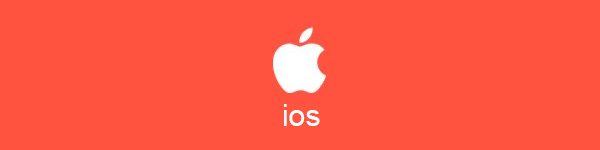
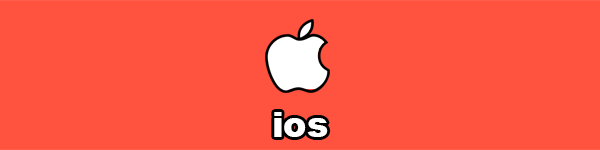
telegram modify

Changed region(s): [[0.42, 0.1333, 0.57, 0.64], [0.45, 0.6933, 0.57, 0.9333]]

diff --git a/schedule/telegramHmall.js b/schedule/telegramHmall.js
@@ -1,0 +1,77 @@
+const schedule = require('node-schedule');
+const dotenv = require('dotenv');
+dotenv.config();
+const moment = require('moment');
+moment.locale('ko');
+process.env.NTBA_FIX_319 = 1;
+
+const TelegramBot = require('node-telegram-bot-api');
+const token = process.env.TELEGRAM_BOT_TOKEN_HMALL;
+const bot = new TelegramBot(token, { polling: true });
+
+let alertJob;
+const hmallNewReviews = [];
+
+const setHmallNewReviews = (name, data, result) => {
+  const starRate = parseInt(data.score, 10) === 1 || parseInt(data.rate, 10) === 1;
+  if (name === 'hmall' && starRate) {
+    hmallNewReviews.push(result);
+  }
+};
+
+const clearNewReviews = () => {
+  while (hmallNewReviews.length > 0) {
+    hmallNewReviews.pop();
+  }
+};
+
+const getAlertReview = async chatId => {
+  // 건별 텔레그램 메시지 전송
+  for (let i = 0, len = hmallNewReviews.length; i < len; i++) {
+    const { date, os, review } = hmallNewReviews[i];
+    const imageHmallUrl = `http://review.hdmall.com/images/icon-hmall-telegram-${os}.png?ver=1`;
+    const text = os === 'android' ? review.text : review.comment;
+    const caption = `# ${moment(date).format('YYYY. MM. DD')}\n\n${text}`;
+    await bot.sendPhoto(chatId, imageHmallUrl, { caption });
+  }
+  clearNewReviews();
+};
+
+bot.onText(/\/start$/, (msg, match) => {
+  const chatId = msg.chat.id;
+  bot.sendMessage(chatId, '평점 1점 앱리뷰 알림을 시작합니다.\n(매일 오전 8시 30분)');
+  alertJob = schedule.scheduleJob('30 8 * * *', () => {
+    getAlertReview(chatId);
+  });
+  console.log('[TELEGRAM] #평점 1점 앱리뷰 알림을 시작합니다. (매일 오전 8시 30분)');
+});
+
+bot.onText(/\/stop$/, (msg, match) => {
+  const chatId = msg.chat.id;
+  alertJob.cancel();
+  bot.sendMessage(chatId, '앱리뷰 알림을 종료 합니다.');
+  console.log('[TELEGRAM] #앱리뷰 알림을 종료 합니다.');
+});
+
+module.exports = { setHmallNewReviews };
+
+/**
+ * #### TODO ####
+ * ------------------------------------------------------------
+ * 2019.10.31. 작성
+ *
+ * ## 1번
+ * 현재 로직은 매일9시 어제날짜부터 오늘날짜까지의 리뷰 1점 짜리를 가져와서
+ * 텔레그램 메세지 전송
+ *
+ * ## 2번
+ * 매일 8시 30분 마다 메시지 전송이 잘되는지 확인차 서버를 돌리고감
+ *
+ * ## 3번
+ * 매일 8시 30분 마다 잘 뿌려지는 확인된 그 이후에
+ * 리뷰 어떤식으로 뿌릴지 고민
+ *
+ * ## 4번
+ * 1점짜리 리뷰가 수집되지 않을 경우 안내 메시지
+ * ------------------------------------------------------------
+ */

diff --git a/schedule/scrap.js b/schedule/scrap.js
@@ -10,7 +10,8 @@ const { getRandom, strToDate, deepCompare, undefinedToNull, objectKeyRemove, obj
 moment.locale('ko');
 
 // telegram api apply
-const { setNewReviews } = require('./telegram');
+const { setHmallNewReviews } = require('./telegramHmall');
+const { setThehyundaiNewReviews } = require('./telegramThehyundai');
 let scrapJob;
 
 const scrapingDetailGooglePlay = async scrapData => {
@@ -108,7 +109,8 @@ const scrapingReviewGooglePlay = async scrapData => {
           updatedReviews.push(updateResult);
 
           // hmall 평점1점 리뷰 배열에 담기
-          setNewReviews(name, data, updateResult);
+          setHmallNewReviews(name, data, updateResult);
+          setThehyundaiNewReviews(name, data, updateResult);
           console.log(`[SCRAPING/DB] #${name} reviews googlePlay, updated review idx: ${idx}`);
         }
       } else {
@@ -122,7 +124,8 @@ const scrapingReviewGooglePlay = async scrapData => {
         accumulator.push(newResult);
 
         // hmall 평점1점 리뷰 배열에 담기
-        setNewReviews(name, data, newResult);
+        setHmallNewReviews(name, data, newResult);
+        setThehyundaiNewReviews(name, data, newResult);
         console.log(`[SCRAPING] #${name} reviews googlePlay, new review idx: ${idx}`);
       }
 
@@ -200,7 +203,8 @@ const scrapingReviewAppStore = async scrapData => {
           updatedReviews.push(updateResult);
 
           // hmall 평점1점 리뷰 배열에 담기
-          setNewReviews(name, data, updateResult);
+          setHmallNewReviews(name, data, updateResult);
+          setThehyundaiNewReviews(name, data, updateResult);
           console.log(`[SCRAPING/DB] #${name} reviews appStore, updated review idx: ${idx}`);
         }
       } else {
@@ -214,7 +218,8 @@ const scrapingReviewAppStore = async scrapData => {
         accumulator.push(newResult);
 
         // hmall 평점1점 리뷰 배열에 담기
-        setNewReviews(name, data, newResult);
+        setHmallNewReviews(name, data, newResult);
+        setThehyundaiNewReviews(name, data, newResult);
         console.log(`[SCRAPING] #${name} reviews appStore, new review idx: ${idx}`);
       }
 
@@ -292,6 +297,7 @@ const sitesScrapingStart = async () => {
 };
 
 const scheduler = site => {
+  // 스크랩 시작
   sitesScrapingStart();
 
   // 스케쥴 등록

diff --git a/schedule/telegramThehyundai.js b/schedule/telegramThehyundai.js
@@ -6,34 +6,30 @@ moment.locale('ko');
 process.env.NTBA_FIX_319 = 1;
 
 const TelegramBot = require('node-telegram-bot-api');
-const token = process.env.TELEGRAM_BOT_TOKEN;
+const token = process.env.TELEGRAM_BOT_TOKEN_THEHYUNDAI;
 const bot = new TelegramBot(token, { polling: true });
 
 let alertJob;
-const hmallNewReviews = [];
+const ThehyundaiNewReviews = [];
 
-const setNewReviews = (name, data, result) => {
+const setThehyundaiNewReviews = (name, data, result) => {
   const starRate = parseInt(data.score, 10) === 1 || parseInt(data.rate, 10) === 1;
   if (name === 'hmall' && starRate) {
-    hmallNewReviews.push(result);
+    ThehyundaiNewReviews.push(result);
   }
 };
 
 const clearNewReviews = () => {
-  while (hmallNewReviews.length > 0) {
-    hmallNewReviews.pop();
+  while (ThehyundaiNewReviews.length > 0) {
+    ThehyundaiNewReviews.pop();
   }
 };
 
 const getAlertReview = async chatId => {
-  // 실제 배포시 서버용 이미지 주소로 변경해야됨
-  //const imageHmallUrl = 'http://review.hdmall.com/images/icon-telegram-hmall-android.png';
-  // `http://image.thehyundai.com/icon-telegram-hmall-${os}.png`
-
   // 건별 텔레그램 메시지 전송
-  for (let i = 0, len = hmallNewReviews.length; i < len; i++) {
-    const { date, os, review } = hmallNewReviews[i];
-    const imageHmallUrl = `http://review.hdmall.com/images/icon-telegram-hmall-${os}.png?ver=1`;
+  for (let i = 0, len = ThehyundaiNewReviews.length; i < len; i++) {
+    const { date, os, review } = ThehyundaiNewReviews[i];
+    const imageHmallUrl = `http://review.hdmall.com/images/icon-thehyundai-telegram-${os}.png?ver=1`;
     const text = os === 'android' ? review.text : review.comment;
     const caption = `# ${moment(date).format('YYYY. MM. DD')}\n\n${text}`;
     await bot.sendPhoto(chatId, imageHmallUrl, { caption });
@@ -57,7 +53,7 @@ bot.onText(/\/stop$/, (msg, match) => {
   console.log('[TELEGRAM] #앱리뷰 알림을 종료 합니다.');
 });
 
-module.exports = { setNewReviews };
+module.exports = { setThehyundaiNewReviews };
 
 /**
  * #### TODO ####
